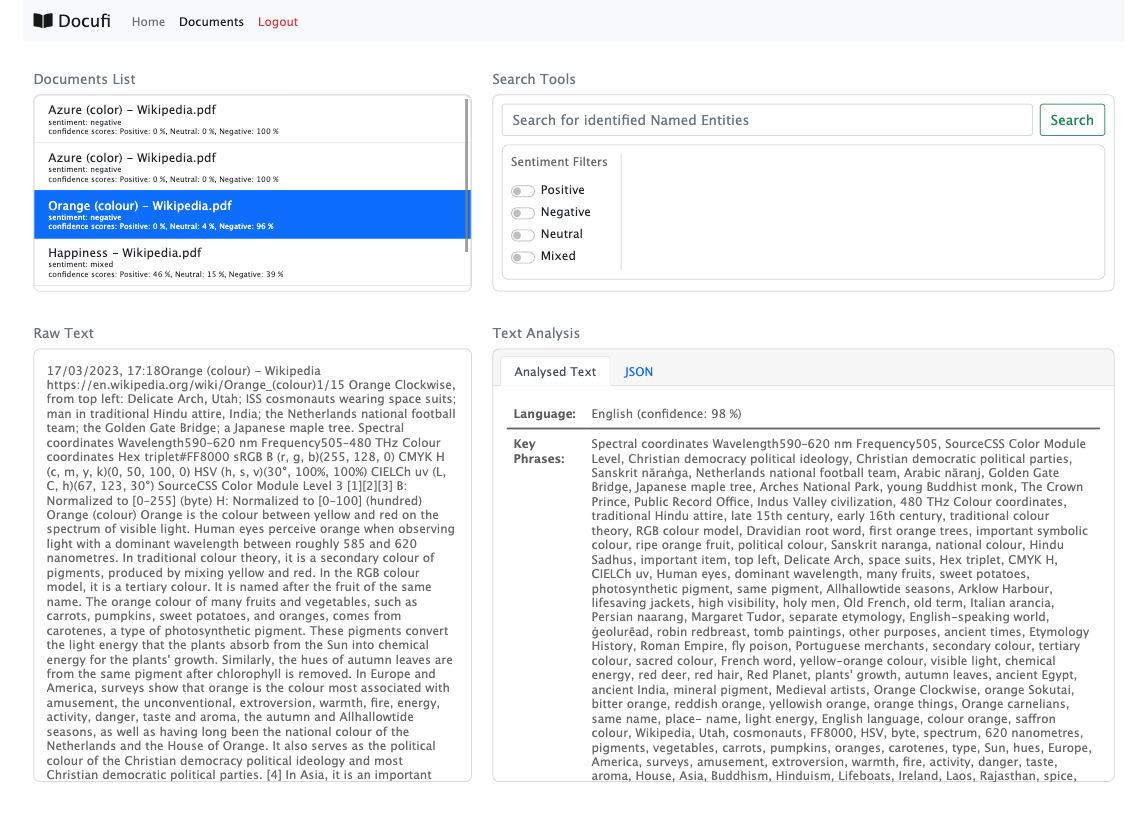
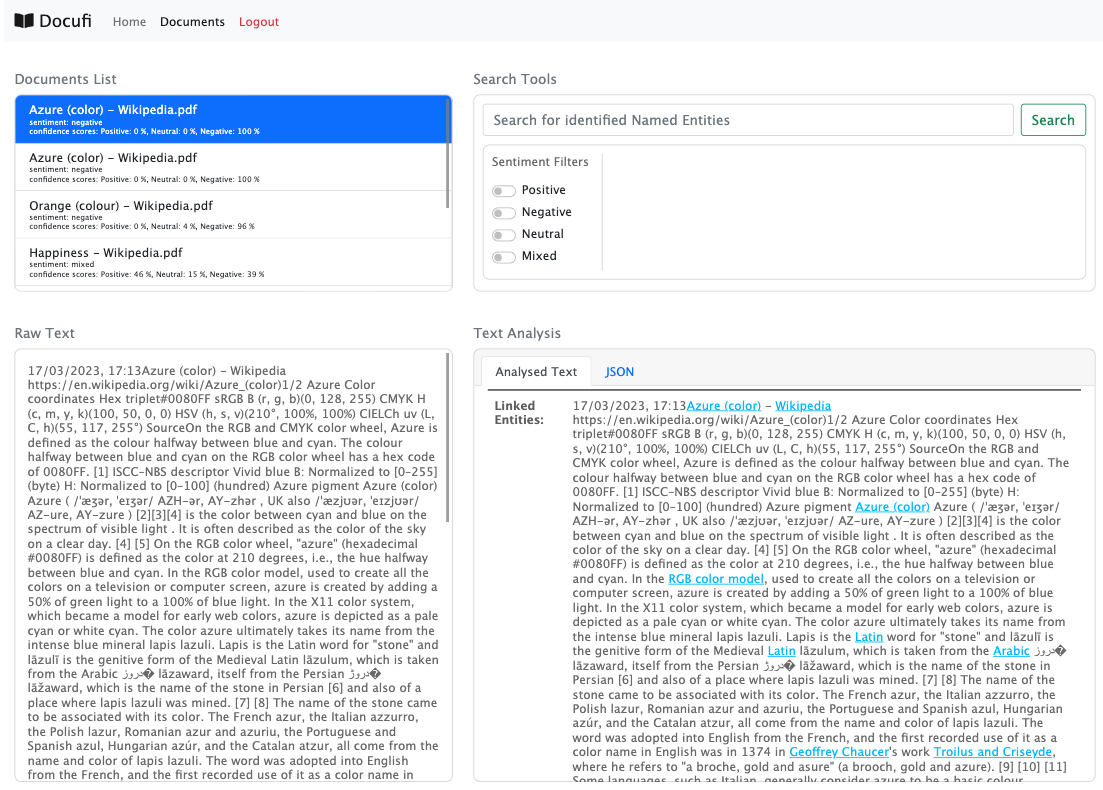
updated readme imgs

diff --git a/README.md b/README.md
@@ -2,10 +2,17 @@
 
 Docufi is a Node / Express JS Single Page application that allows users to upload, store and analyse PDF documents. Utilising the Text Analytics API (a feature from Microsoft Azure Cognitive Services) Docufi will mine the unstructured text and identify key phrases, entities, and sentiment. This allows you to better understand common topics and trends without having to read through all the text. Upload your PDFs for processing and gain a deeper understanding of your documents.
 
-![PDF analysis JSON output](./.readme_imgs/pdf_analysis_json.png)
-![PDF analysis output](./.readme_imgs/pdf_analysis.png)
-![PDF analysis screenshot](./.readme_imgs/pdf_upload.png)
+>Login to the site
 ![PDF analysis screenshot](./.readme_imgs/login.png)
+
+>Upload your PDF files 
+![PDF analysis screenshot](./.readme_imgs/pdf_upload.png)
+
+>Analyse the text for sentiment, phrases, entities and automatic linking
+![PDF analysis output](./.readme_imgs/pdf_analysis.png)
+
+>JSON output available
+![PDF analysis JSON output](./.readme_imgs/pdf_analysis_json.png)
 
 # Setup
 
